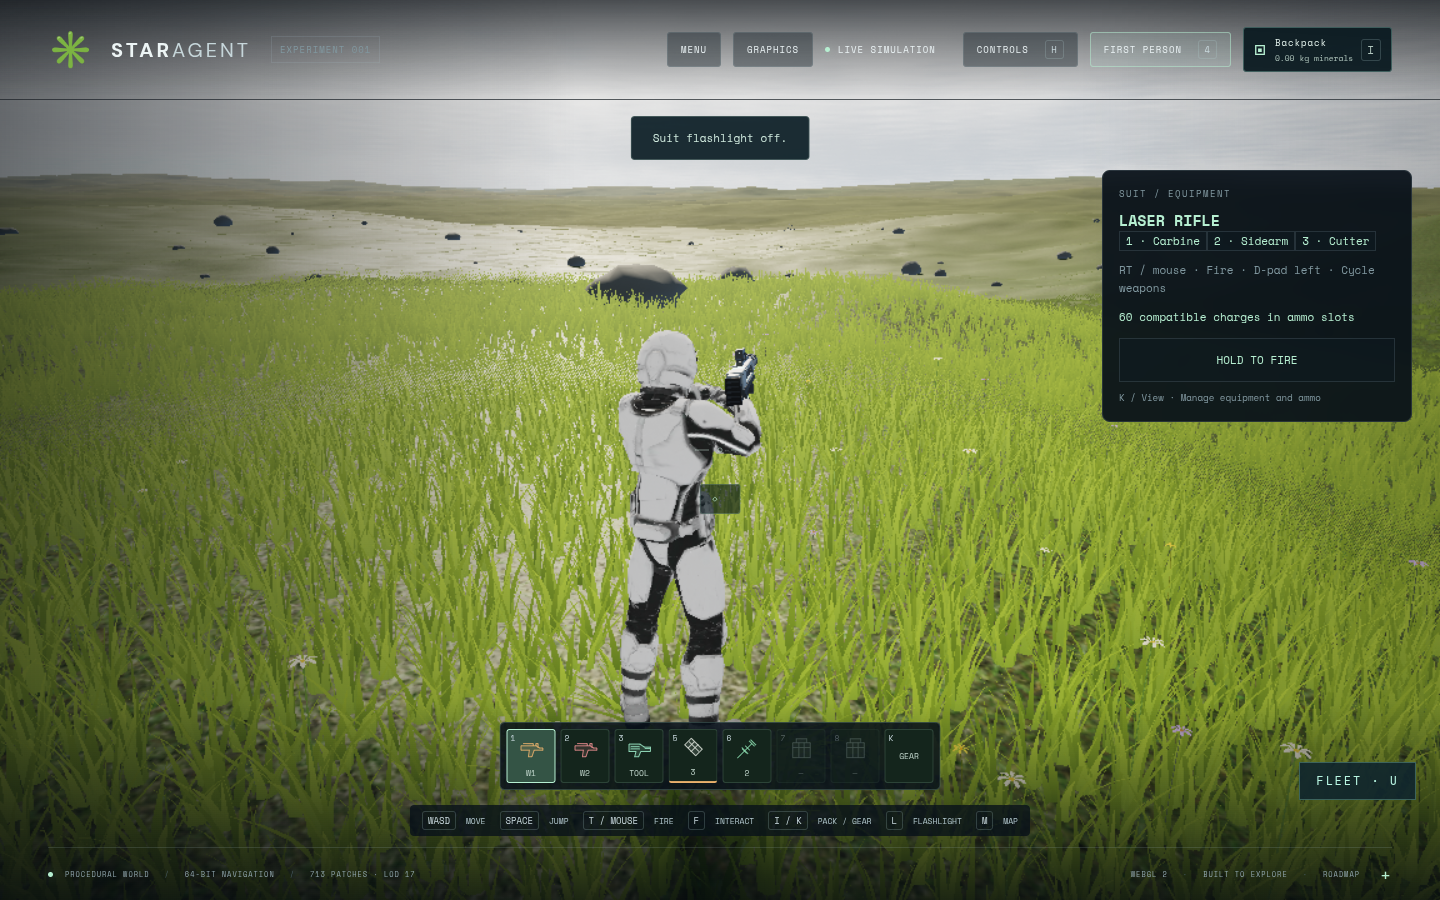
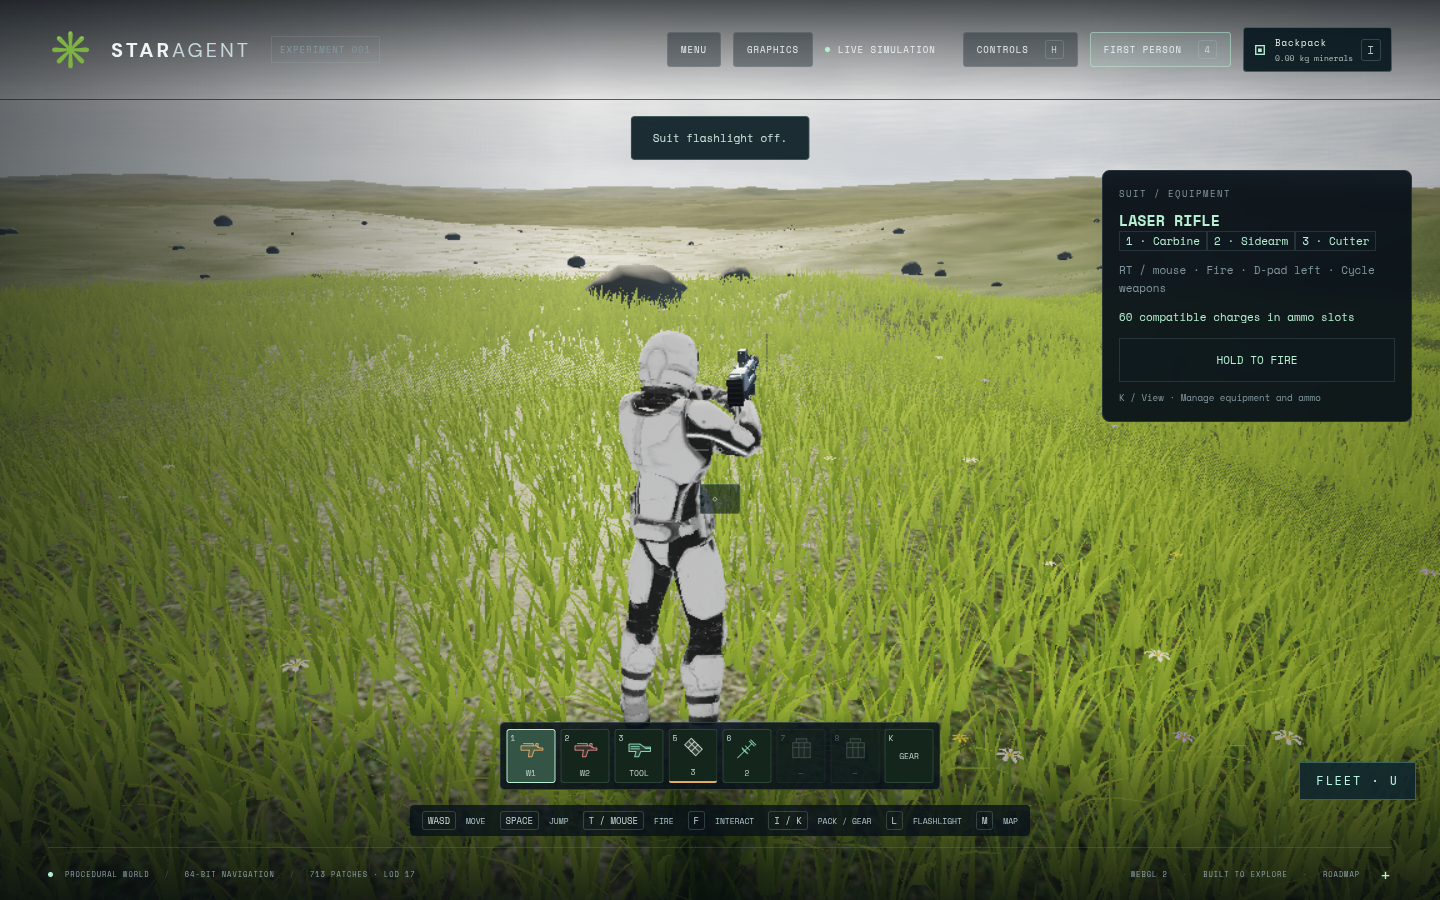
Preserve distant grass coverage and blade colour through minification

diff --git a/src/distant-meadow.js b/src/distant-meadow.js
@@ -2,17 +2,29 @@ import * as THREE from 'three';
 import { RADIUS, terrainHeight, moisture, hash } from './world.js';
 
 const CAPACITY=85000, SPACING=1.1, MARGIN=20, UP=new THREE.Vector3(0,1,0);
-/** Cheap crossed clusters: 18 tapered blades encoded in one reusable alpha mask.
+/** Cheap crossed clusters: 32 tapered blades encoded in one reusable colored alpha mask.
  * The source is deterministic; no network textures or per-blade scene objects. */
 function grassTexture(){
   const canvas=document.createElement('canvas');canvas.width=128;canvas.height=128;
-  const c=canvas.getContext('2d');c.fillStyle='white';
-  for(let i=0;i<18;i++){
-    const x=4+hash(i,0,8791)*120,h=45+hash(i,1,8791)*78,lean=(hash(i,2,8791)-.5)*28;
+  const c=canvas.getContext('2d');
+  for(let i=0;i<32;i++){
+    const x=4+hash(i,0,8791)*120,h=83+hash(i,1,8791)*41,lean=(hash(i,2,8791)-.5)*28;
+    const gradient=c.createLinearGradient(0,128,0,128-h);
+    gradient.addColorStop(0,new THREE.Color(.42,.52,.27).getStyle());
+    gradient.addColorStop(1,new THREE.Color(.80,.88,.45).getStyle());c.fillStyle=gradient;
     c.beginPath();c.moveTo(x-2.2,128);c.quadraticCurveTo(x+lean*.2,128-h*.6,x+lean,128-h);
     c.quadraticCurveTo(x+lean*.3+2,128-h*.55,x+2.2,128);c.fill();
   }
-  const texture=new THREE.CanvasTexture(canvas);texture.colorSpace=THREE.SRGBColorSpace;return texture;
+  // Supply RGB even outside the mask so minification does not average black
+  // transparent texels into the blade color. Alpha still controls coverage.
+  const pixels=c.getImageData(0,0,128,128).data,color=new THREE.Color();
+  for(let y=0;y<128;y++)for(let x=0;x<128;x++){
+    const i=(y*128+x)*4;if(pixels[i+3]!==0)continue;
+    const t=Math.min(1,(128-y)/105);color.setRGB(.42+t*.38,.52+t*.36,.27+t*.18).convertLinearToSRGB();
+    pixels[i]=Math.round(color.r*255);pixels[i+1]=Math.round(color.g*255);pixels[i+2]=Math.round(color.b*255);
+  }
+  const texture=new THREE.DataTexture(pixels,128,128);texture.colorSpace=THREE.SRGBColorSpace;
+  texture.flipY=true;texture.generateMipmaps=true;texture.minFilter=THREE.LinearMipmapLinearFilter;texture.magFilter=THREE.LinearFilter;texture.needsUpdate=true;return texture;
 }
 function clusterGeometry(){
   const positions=[],uv=[],indices=[];
@@ -41,22 +53,24 @@ export class DistantMeadow {
     this.uniforms={fieldEye:{value:new THREE.Vector3()},fieldTime:{value:0},fieldRange:{value:this.distance}};
     this.texture=medium?null:grassTexture();this.geometry=medium?mediumGeometry():clusterGeometry();
     this.geometry.setAttribute('fieldPhase',new THREE.InstancedBufferAttribute(new Float32Array(this.capacity),1));
-    this.material=new THREE.MeshStandardMaterial({map:this.texture,alphaTest:medium?0:.32,side:THREE.DoubleSide,roughness:1});
+    this.material=new THREE.MeshStandardMaterial({map:this.texture,alphaTest:0,side:THREE.DoubleSide,roughness:1});
     this.material.onBeforeCompile=shader=>{
       Object.assign(shader.uniforms,this.uniforms);
-      shader.vertexShader=shader.vertexShader.replace('#include <common>','#include <common>\nuniform vec3 fieldEye; uniform float fieldTime; attribute float fieldPhase; varying float fieldDistance; varying float fieldHeight;')
+      shader.vertexShader=shader.vertexShader.replace('#include <common>','#include <common>\nuniform vec3 fieldEye; uniform float fieldTime; attribute float fieldPhase; varying float fieldDistance; varying float fieldHeight; varying float fieldSeed;')
         .replace('#include <begin_vertex>',`#include <begin_vertex>
-          vec3 root=instanceMatrix[3].xyz; fieldDistance=length(root-fieldEye); fieldHeight=uv.y;
+          vec3 root=instanceMatrix[3].xyz; fieldDistance=length(root-fieldEye); fieldHeight=uv.y; fieldSeed=fieldPhase;
           transformed.x+=sin(fieldTime*1.8+fieldPhase)*.09*position.y*position.y;`);
-      shader.fragmentShader=shader.fragmentShader.replace('#include <common>','#include <common>\nuniform float fieldRange; varying float fieldDistance; varying float fieldHeight;')
+      shader.fragmentShader=shader.fragmentShader.replace('#include <common>','#include <common>\nuniform float fieldRange; varying float fieldDistance; varying float fieldHeight; varying float fieldSeed;')
         .replace('#include <alphatest_fragment>',`#include <alphatest_fragment>
           float cover=smoothstep(${medium?'6.0,10.0':'20.0,28.0'},fieldDistance)*(1.0-smoothstep(${medium?'20.0':'fieldRange*.78'},fieldRange,fieldDistance));
-          float noise=fract(52.9829189*fract(dot(gl_FragCoord.xy,vec2(.06711056,.00583715))));
-          if(noise>cover)discard;`)
+          float noise=fract(52.9829189*fract(dot(gl_FragCoord.xy,vec2(.06711056,.00583715))${medium?'':'+fieldSeed*.137'}));
+          // Preserve the filtered mask's average coverage when blades become
+          // subpixel. A hard alpha cutoff erased the sward in distant mipmaps.
+          if(noise>cover*diffuseColor.a)discard;`)
         .replace('#include <normal_fragment_begin>','#include <normal_fragment_begin>\nnormal*=faceDirection;')
-        .replace('#include <color_fragment>','#include <color_fragment>\ndiffuseColor.rgb*=mix(vec3(.42,.52,.27),vec3(.80,.88,.45),fieldHeight);');
+        .replace('#include <color_fragment>',medium?'#include <color_fragment>\ndiffuseColor.rgb*=mix(vec3(.42,.52,.27),vec3(.80,.88,.45),fieldHeight);':'#include <color_fragment>');
     };
-    this.material.customProgramCacheKey=()=> medium?'medium-meadow-v1':'distant-meadow-v2';
+    this.material.customProgramCacheKey=()=> medium?'medium-meadow-v1':'distant-meadow-v3';
     this.mesh=new THREE.InstancedMesh(this.geometry,this.material,this.capacity);this.mesh.count=0;this.mesh.frustumCulled=false;this.mesh.receiveShadow=true;this.mesh.castShadow=false;this.mesh.name=medium?'Intermediate grass blades':'Distant instanced meadow';scene.add(this.mesh);
     this.stats={range:this.distance,density:.75,clusters:0,pending:0,rebuilds:0,visible:false};
     if(!medium)this.middle=new DistantMeadow(scene,vegetation,{medium:true});

diff --git a/docs/qa/flight-options/third-review.md b/docs/qa/flight-options/third-review.md
@@ -1,0 +1,48 @@
+# Independent flight-options review — third visual pass
+
+**Decision: CHANGES REQUIRED. Bounded visual score remains 3.83 / 5.00.**
+
+Candidate **32782e5**, branch `feat/flight-options`, production preview 5290. I inspected the actual middle-layer diff against 89ce649, then made independent captures. The builder committed identical runtime source during this review. Separate Codex reviewer under HANDOFF TOKEN POLICY v2; no source edits. Reports from the first and second passes remain preserved.
+
+## Finding
+
+**P2 — the grass representation transition remains conspicuous.** The new middle layer substantially improves the original 6–10 m gap: individual middle blades fill the bare area and their color is much closer to the fine foreground. The remaining bright dense-field-to-sparse-card boundary is now farther away, around the 20–28 m overlap. Broad muted olive clusters still reveal substantially more pale ground than the fine/middle blades. Forward movement makes the extent of the bright field around the player apparent.
+
+This is the unresolved portion of the original material/coverage finding, not a new acceptance requirement. See `src/distant-meadow.js:7` and `:17` for the far blade mask/cards, `:26` for the middle blades, `:53` for the two overlap intervals, and `:98` for instance scale. Matching root-to-tip RGB constants is useful, but the rendered silhouette, coverage and apparent color still differ.
+
+Concrete independent evidence: `meadow-80-walking-3.png`, `meadow-160-walking-3.png`, and `meadow-160-stopped.png` in the directory below. The stopped 160 m frame has terrain settled and both grass jobs complete; the discrepancy is therefore not explained by a pending replacement. All frames use render scale 1.
+
+Required correction remains a visually continuous transition in blade silhouette and projected coverage into the far cards. Calibrate the far mask, cluster structure and coverage against the middle field at the actual overlap distance; inspect its apparent color after lighting and alpha filtering. Merely moving the transition farther away or adding more instances does not establish acceptance. No whole-terrain or sky appearance change is requested by this finding.
+
+## Rubric
+
+| QUALITY criterion | Score | Assessment |
+|---|---:|---|
+| Silhouette and scale | 4 | Existing reviewed gear, held tools and UI retain their accepted bounded presentation. Middle grass has a more suitable blade silhouette. |
+| Materials and detail | 3 | Grass is improved, but dense bright blades still change to broad sparse olive clusters at the outer overlap. |
+| Lighting and integration | 4 | Previous dark near-grass band is removed; ship/suit lighting observations remain accepted. |
+| Cohesion | 4 | Existing interface, MFD and equipment visual language remains consistent. |
+| Information design / function | 4 | Previously corrected B/Y MFD hints and graphics controls remain accepted. |
+| Motion | 4 | No additional discrete grass disappearance identified in sampled walking frames. Source now derives phase from canonical positions, avoiding the former origin-dependent wind phase. Material transition is counted above. |
+
+Average **23/6 = 3.83**; no criterion below 3, but required average 4.0 is not met. This is not approval of PR34 or a waiver of inherited scene budgets. No polish waiver was supplied to this reviewer.
+
+## Independent method and evidence
+
+Evidence: `/tmp/star-agent-flight-options-third-independent/`.
+
+- `meadow-80-stationary.png`, five `meadow-80-walking-N.png` frames and `meadow-80-stopped.png`.
+- `meadow-160-stationary.png`, five `meadow-160-walking-N.png` frames and `meadow-160-stopped.png`.
+- `metadata.json`: renderer/browser, position, actual speed, render scale, terrain settling and both meadow layers' publication statistics.
+- `page@cc0da82c9dc6a2abd1b949cfe983c328.webm`: recording of the capture run, retained for follow-up inspection.
+- Capture script: `/tmp/star-flight-third-capture.mjs`.
+
+Chromium **151.0.7922.173**, hardware **ANGLE (AMD, AMD Radeon 860M Graphics (radeonsi krackan1 ACO), OpenGL ES 3.2)**; **1600×900**, DPR 1, render scale explicitly pinned to **1** throughout both ranges. Seed 7291, canonical meadow latitude 15.74 / longitude 22.44, walking eye height 1.75 m. Debug navigation placed the initial controlled fixture, followed by actual W walking at approximately 4.5 m/s. The initial and final stationary frames wait for settled terrain and completed middle/far publication. Normal terrain streaming occurs during the walks. A first-person item occupies the right side; the centre and left provide clear unobscured grass evidence.
+
+Middle layer had approximately 43,200–43,500 instances, and far layer approximately 19,500 at 80 m or 63,000 at 160 m. The middle field published successfully after movement. **Zero browser errors or warnings** were recorded. No GPU/frame-time claim is made from this run, which also recorded video; previous whole-scene budget limitations remain open.
+
+Independent CPU checks: `node --test tests/meadow.test.js` **6/6 passed**; `git diff --check` passed. These tests cover existing meadow invariants, not every new middle-layer behavior. Actual shader compile/render and settled publication were established by the browser captures. Source review found no new concrete functional failure path in the new layer, split generation budget, phase attribute publication or disposal.
+
+Unchanged graphics UI phone/desktop, Nomad/Atlas gear, free drive, equipment, lights and B/Y MFD results remain documented in the earlier reports. They were not all rerun during this narrowly scoped grass pass. The builder separately reports the affected feature browser case passing 1/1.
+
+GPU lane released after capture. No merge, deployment or repository mutation performed.

diff --git a/docs/qa/flight-options/record.md b/docs/qa/flight-options/record.md
@@ -124,4 +124,17 @@ The production build and affected browser fixture passed again (**1/1**) with
 both intermediate and distant fields populated and completely published. No
 console/page errors were recorded. This rerun follows the earlier full2/2 feature
 suite; unaffected controller behavior was not gratuitously rerun for grass geometry.
-The final independent walking review is pending.
+The third independent review of32782e5 also scored **3.83/5**; its exact report is
+retained in [third-review.md](third-review.md). It confirmed the inner improvement
+but found the outer20–28m card overlap still sparse and olive. The next correction
+preserves filtered alpha coverage instead of discarding mipmapped blades at a hard
+threshold, uses32 individually shaded blades in the shared128px mask, and pads
+transparent RGB to prevent black color bleeding during minification. Per-instance
+stochastic coverage lets overlapping far clusters contribute independently.
+
+The first coverage variant passed the affected browser check1/1. A subsequent
+intermediate variant was terminated with exit143 before producing a result; it is
+not recorded as a test pass. The final combined source passed its production build and affected browser
+fixture again (**1/1**, zero page/console errors); independent visual review is
+next. Log: `/tmp/star-agent-flight-options-stochastic-browser.log`. No extra scene meshes or triangles
+were added by the mask correction.
